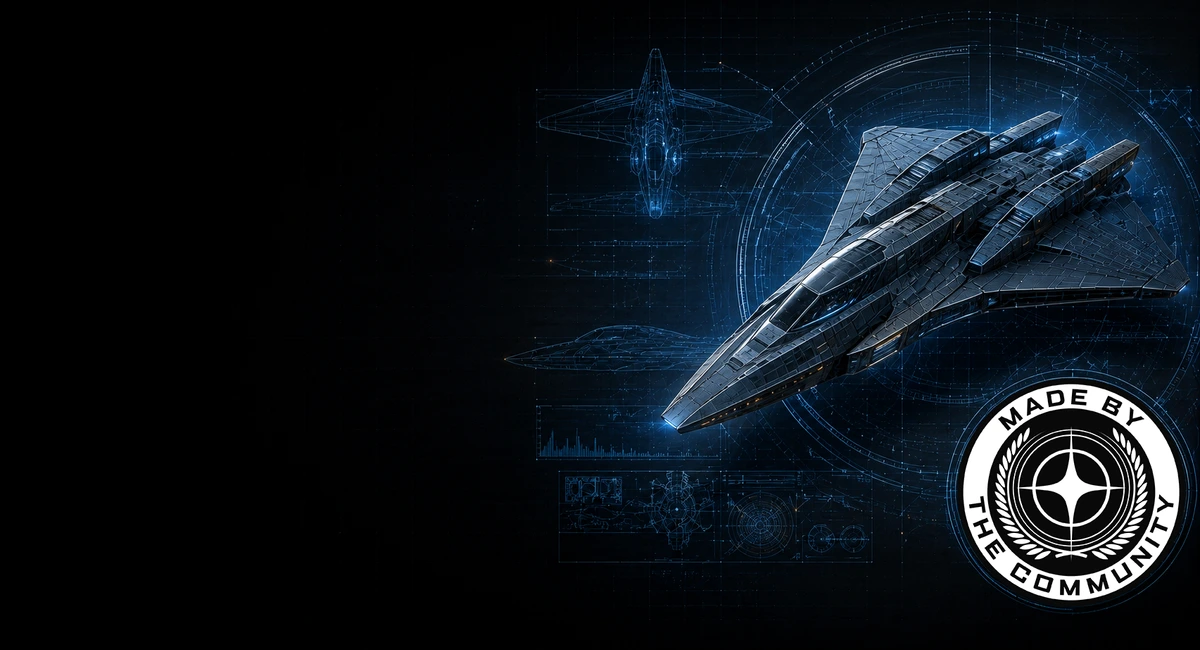
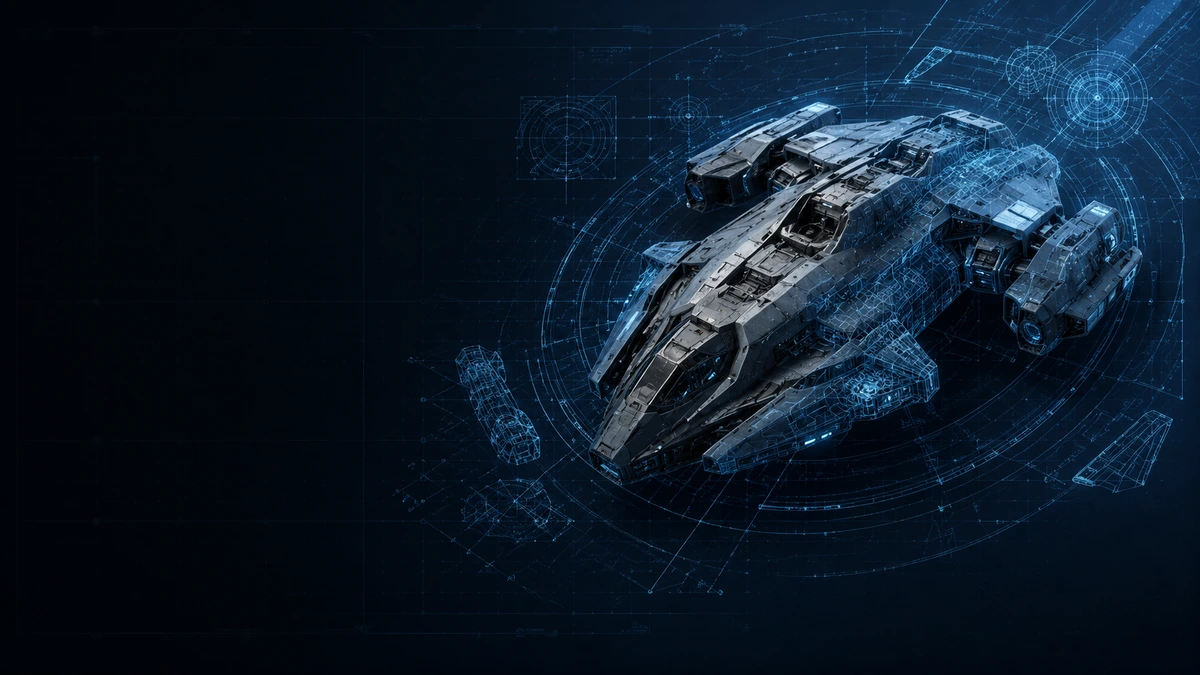
feat(branding): add reusable CertificationBadge overlay for Captain's Log (EWO-095B + Amendment 1)
The Captain's Log certification illustration is now treated as pure
environmental artwork — no branding or certification mark is assumed
embedded in it. The Community Certified seal is rendered by a new,
reusable src/components/branding/CertificationBadge.tsx overlay,
resolved through a new semantic registry (CertificationBadgeVariant /
certificationBadgeAssets.ts) rather than a hardcoded filename, deliberately
distinct from BrandingAssetKey (SFM's own identity assets) since a
certification seal is a third-party endorsement mark. Adding a future
badge (Beta Certified, LIVE Compatible, ...) means one new registry
entry, no component or page changes.

Layering: Card -> Background/Artwork -> Badge (z-10) -> Text (z-20),
so text always wins if anything overlaps. The certification card's
text wrapper is bumped from z-10 to z-20 accordingly.

Amendment 1 (presentation-only refinement, folded into this same
commit since neither half was committed independently): the badge is
sized up ~14-20% across its responsive tiers and switched from
bottom-right corner anchoring to true vertical centering
(top-1/2 + -translate-y-1/2) so it reads as an intentional visual
"signature" at the end of the card's left-to-right reading path. No
architecture, asset, or registry changes in this refinement.

The Captain's Log accent master PNG was replaced with a clean,
badge-free illustration; its WebP derivatives were regenerated from
[…]

diff --git a/src/components/branding/__tests__/CertificationBadge.test.tsx b/src/components/branding/__tests__/CertificationBadge.test.tsx
@@ -1,0 +1,70 @@
+import { describe, it, expect, vi, afterEach } from 'vitest'
+import { render, cleanup } from '@testing-library/react'
+import CertificationBadge from '../CertificationBadge'
+import { CERTIFICATION_BADGES } from '../../../config/assets'
+
+afterEach(() => cleanup())
+
+/**
+ * EWO-095B — the reusable certification-seal overlay. Covers: correct
+ * asset/alt resolution via the semantic registry (never a hardcoded
+ * filename in this component), default overlay positioning/opacity/
+ * layering, the `className` override escape hatch, and the
+ * missing-asset-never-crashes contract every other semantic asset
+ * consumer in this codebase already follows.
+ */
+describe('<CertificationBadge />', () => {
+  it("renders the 'community' seal with its registry src and alt — never a hardcoded filename", () => {
+    const { getByAltText } = render(<CertificationBadge variant="community" />)
+    const img = getByAltText(CERTIFICATION_BADGES.community.alt) as HTMLImageElement
+    expect(img).toBeInTheDocument()
+    expect(img.src).toContain(CERTIFICATION_BADGES.community.src)
+  })
+
+  it('defaults to an absolutely positioned, vertically centered, right-aligned, fully opaque, non-interactive overlay (EWO-095B Amendment 1)', () => {
+    const { getByAltText } = render(<CertificationBadge variant="community" />)
+    const img = getByAltText(CERTIFICATION_BADGES.community.alt)
+    expect(img.className).toContain('absolute')
+    expect(img.className).toContain('right-6')
+    // True vertical centering, not corner-anchoring — stays centered as
+    // card height changes since the transform is relative to the badge's
+    // own rendered height, not a fixed pixel offset from an edge.
+    expect(img.className).toContain('top-1/2')
+    expect(img.className).toContain('-translate-y-1/2')
+    expect(img.className).not.toContain('bottom-[18px]')
+    expect(img.className).toContain('pointer-events-none')
+    // Fully opaque per EWO-095B Part E — no opacity utility class applied.
+    expect(img.className).not.toMatch(/\bopacity-/)
+  })
+
+  it('renders ~14-20% larger across responsive tiers than the pre-Amendment-1 sizing (w-16/sm:w-20/md:w-24, up from w-14/sm:w-16/md:w-20)', () => {
+    const { getByAltText } = render(<CertificationBadge variant="community" />)
+    const img = getByAltText(CERTIFICATION_BADGES.community.alt)
+    expect(img.className).toContain('w-16')
+    expect(img.className).toContain('sm:w-20')
+    expect(img.className).toContain('md:w-24')
+  })
+
+  it('sits above the artwork but below foreground text in the default stacking (z-10, less than the CaptainsLog text wrapper’s z-20)', () => {
+    const { getByAltText } = render(<CertificationBadge variant="community" />)
+    const img = getByAltText(CERTIFICATION_BADGES.community.alt)
+    expect(img.className).toContain('z-10')
+  })
+
+  it('accepts a className override for a future placement without touching the component', () => {
+    const { getByAltText } = render(<CertificationBadge variant="community" className="absolute left-2 top-2 w-10" />)
+    const img = getByAltText(CERTIFICATION_BADGES.community.alt)
+    expect(img.className).toBe('absolute left-2 top-2 w-10')
+  })
+
+  it('renders nothing (never a broken <img>) when the resolved variant has no usable src', () => {
+    const original = CERTIFICATION_BADGES.community.enabled
+    CERTIFICATION_BADGES.community.enabled = false
+    try {
+      const { container } = render(<CertificationBadge variant="community" />)
+      expect(container).toBeEmptyDOMElement()
+    } finally {
+      CERTIFICATION_BADGES.community.enabled = original
+    }
+  })
+})

diff --git a/src/components/branding/CertificationBadge.tsx b/src/components/branding/CertificationBadge.tsx
@@ -1,0 +1,45 @@
+import { getCertificationBadge, resolveCertificationBadgeSrc } from '../../config/assets'
+import type { CertificationBadgeVariant } from '../../config/assets'
+
+interface CertificationBadgeProps {
+  variant: CertificationBadgeVariant
+  /** Extra classes merged onto the default bottom-right overlay position — lets a future placement/size override without a prop explosion. */
+  className?: string
+}
+
+/**
+ * EWO-095B — a small, reusable overlay responsible only for rendering a
+ * certification seal above environmental artwork. It resolves its asset
+ * semantically (`variant`, never a raw filename) and renders nothing when
+ * that variant has no approved artwork yet, exactly like every other
+ * semantic asset resolver in this codebase.
+ *
+ * Positioned absolutely by default (the caller's own container must be
+ * `position: relative`), fully opaque, and `pointer-events-none` since
+ * it's a non-interactive mark, not a control. Callers needing a different
+ * placement/size for a future context pass `className` to override the
+ * position/sizing utilities below without touching this component.
+ *
+ * EWO-095B Amendment 1 — vertically centered (top-1/2 + -translate-y-1/2)
+ * rather than corner-anchored to the card's bottom edge, and sized up
+ * ~14-20% across the responsive tiers (w-14/sm:w-16/md:w-20 ->
+ * w-16/sm:w-20/md:w-24) so the seal reads as an intentional visual
+ * "signature" at the end of the card's left-to-right reading path rather
+ * than a decorative corner element. Stays centered as card height changes
+ * since the transform is relative to the badge's own height, not a fixed
+ * offset.
+ */
+export default function CertificationBadge({ variant, className }: CertificationBadgeProps) {
+  const src = resolveCertificationBadgeSrc(variant)
+  if (!src) return null
+
+  const { alt } = getCertificationBadge(variant)
+
+  return (
+    <img
+      src={src}
+      alt={alt}
+      className={className ?? 'absolute right-6 top-1/2 -translate-y-1/2 z-10 w-16 sm:w-20 md:w-24 h-auto object-contain pointer-events-none select-none'}
+    />
+  )
+}

diff --git a/src/config/assets/__tests__/certificationBadgeAssets.test.ts b/src/config/assets/__tests__/certificationBadgeAssets.test.ts
@@ -1,0 +1,33 @@
+import { describe, it, expect } from 'vitest'
+import { CERTIFICATION_BADGES, getCertificationBadge, resolveCertificationBadgeSrc } from '../certificationBadgeAssets'
+import type { CertificationBadgeDefinition } from '../types'
+
+/**
+ * EWO-095B — `<CertificationBadge>`'s semantic asset registry. A distinct
+ * registry from `BrandingAssetKey` (SFM's own identity assets) — see
+ * `CertificationBadgeVariant`'s own doc comment (types.ts) for why.
+ */
+describe('EWO-095B: certification badge registry', () => {
+  it("'community' is enabled with an approved asset and a real, non-empty alt", () => {
+    const def = getCertificationBadge('community')
+    expect(def.enabled).toBe(true)
+    expect(def.src).toMatch(/^\/assets\/branding\/community\/.+\.png$/)
+    expect(def.alt.trim().length).toBeGreaterThan(0)
+  })
+
+  it('resolveCertificationBadgeSrc returns the registered src for an enabled variant', () => {
+    expect(resolveCertificationBadgeSrc('community')).toBe(CERTIFICATION_BADGES.community.src)
+  })
+
+  it('returns undefined (never a broken path) when disabled, regardless of src being present — pure resolution logic, matching resolveCaptainsLogAccentSource’s own contract', () => {
+    const disabledButSourced: CertificationBadgeDefinition = { variant: 'community', label: 'x', alt: 'x', src: '/assets/branding/community/x.png', enabled: false }
+    const resolved = disabledButSourced.enabled && disabledButSourced.src ? disabledButSourced.src : undefined
+    expect(resolved).toBeUndefined()
+  })
+
+  it('never throws for a defined variant with no src, resolving to undefined instead', () => {
+    const noSrc: CertificationBadgeDefinition = { variant: 'community', label: 'x', alt: 'x', enabled: true }
+    const resolved = noSrc.enabled && noSrc.src ? noSrc.src : undefined
+    expect(resolved).toBeUndefined()
+  })
+})

diff --git a/src/pages/__tests__/CaptainsLog.test.tsx b/src/pages/__tests__/CaptainsLog.test.tsx
@@ -54,6 +54,37 @@ describe("CWO-005 (Task 5) / BP-001: Captain's Log — version/certification pre
 })
 
 /**
+ * EWO-095B — "Canonical Image Presentation & Environmental Clarity" for
+ * Captain's Log specifically: the certification illustration is artwork
+ * only (no embedded badge assumed), and the Community Certification Seal
+ * is a separate, reusable `<CertificationBadge>` overlay layered above the
+ * artwork but below the certification text.
+ */
+describe("EWO-095B: Captain's Log certification card — reusable badge overlay", () => {
+  it('renders the Community Certified seal as a real <img>, resolved through the semantic registry', () => {
+    renderCaptainsLog()
+    const badge = screen.getByAltText('Community Certified') as HTMLImageElement
+    expect(badge).toBeInTheDocument()
+    expect(badge.src).toContain('/assets/branding/community/community-certified-seal.png')
+  })
+
+  it('badge floats above the artwork but stays below the certification text (z-10 vs. the text wrapper’s z-20) — text is never obscured', () => {
+    renderCaptainsLog()
+    const badge = screen.getByAltText('Community Certified')
+    expect(badge.className).toContain('z-10')
+    const certifiedForLabel = screen.getByText('Certified for')
+    const textWrapper = certifiedForLabel.parentElement as HTMLElement
+    expect(textWrapper.className).toContain('z-20')
+  })
+
+  it('certification text remains present and unchanged alongside the badge', () => {
+    renderCaptainsLog()
+    expect(screen.getByText(`Strategic Fleet Manager ${APP_VERSION_LABEL}`)).toBeInTheDocument()
+    expect(screen.getByText('Certified for')).toBeInTheDocument()
+  })
+})
+
+/**
  * EWO-093 — "Fleet Export Architecture." The Export button is the one
  * Commander-facing piece of this work order — everything else is the
  * shared serialization module underneath it (see

diff --git a/src/config/assets/types.ts b/src/config/assets/types.ts
@@ -223,3 +223,34 @@ export interface CaptainsLogAccentDefinition {
   /** True once this id is both delivered and approved for integration. */
   enabled: boolean
 }
+
+/**
+ * EWO-095B — semantic variants for `<CertificationBadge>`, the small
+ * reusable overlay that renders a certification seal above environmental
+ * artwork (never a raw PNG filename in page code). Deliberately its own
+ * registry rather than folded into `BrandingAssetKey` — that registry is
+ * scoped to Strategic Fleet Manager's own identity assets (logo, marks,
+ * app icon); a certification seal is a third-party/community endorsement
+ * mark layered onto a specific card, a different semantic category
+ * entirely, delivered under `public/assets/branding/community/` (and
+ * future sibling directories per issuer).
+ *
+ * Today only `'community'` has approved artwork. The union exists so a
+ * future badge (Beta Certified, LIVE Compatible, PTU Compatible,
+ * Community Verified, Quantum Thread Studio Certified, ...) is added here
+ * and to `CERTIFICATION_BADGES` without `<CertificationBadge>` or any of
+ * its callers changing shape — only ever `<CertificationBadge variant="...">`,
+ * never a hardcoded filename.
+ */
+export type CertificationBadgeVariant = 'community'
+
+export interface CertificationBadgeDefinition {
+  variant: CertificationBadgeVariant
+  label: string
+  /** Root-relative public path, or undefined until this variant's artwork is approved. */
+  src?: string
+  /** Accessible alt text — the seal is substantive certification content, not decorative filler. */
+  alt: string
+  /** True once this variant's artwork is both delivered and approved for integration. */
+  enabled: boolean
+}

diff --git a/src/config/assets/certificationBadgeAssets.ts b/src/config/assets/certificationBadgeAssets.ts
@@ -1,0 +1,31 @@
+import { assetPath } from './assetPaths'
+import type { CertificationBadgeDefinition, CertificationBadgeVariant } from './types'
+
+/**
+ * EWO-095B — see `CertificationBadgeVariant`'s own doc comment (types.ts)
+ * for why this is a distinct registry from `BrandingAssetKey`. The seal
+ * master is a single, already-appropriately-sized square PNG with alpha —
+ * no responsive-tier pipeline is warranted here (unlike the photographic
+ * environment/illustration backgrounds), matching the existing
+ * `compactMark`/`sidebarCommissioningMark` precedent of referencing an
+ * approved raster directly.
+ */
+export const CERTIFICATION_BADGES: Record<CertificationBadgeVariant, CertificationBadgeDefinition> = {
+  community: {
+    variant: 'community',
+    label: 'Community Certified Seal',
+    alt: 'Community Certified',
+    src: assetPath('branding/community/community-certified-seal.png'),
+    enabled: true,
+  },
+}
+
+export function getCertificationBadge(variant: CertificationBadgeVariant): CertificationBadgeDefinition {
+  return CERTIFICATION_BADGES[variant]
+}
+
+/** Resolved src, or undefined when this variant isn't enabled/has no approved artwork yet — callers must render nothing rather than a broken `<img>`. */
+export function resolveCertificationBadgeSrc(variant: CertificationBadgeVariant): string | undefined {
+  const def = CERTIFICATION_BADGES[variant]
+  return def.enabled && def.src ? def.src : undefined
+}

diff --git a/src/pages/CaptainsLog.tsx b/src/pages/CaptainsLog.tsx
@@ -7,6 +7,7 @@ import FleetImportPreview from '../components/FleetImportPreview'
 import { APP_VERSION_LABEL } from '../config/appVersion'
 import { resolveCertifiedGameVersionLabel } from '../utils/scVersion'
 import { resolveCaptainsLogAccentSource } from '../config/assets'
+import CertificationBadge from '../components/branding/CertificationBadge'
 
 type FleetImportSuccessOutcome = Extract<FleetImportOutcome, { ok: true }>
 
@@ -125,7 +126,13 @@ export default function CaptainsLog() {
             }}
           />
         )}
-        <div className="relative z-10">
+        {/* EWO-095B — the seal is a reusable branding overlay, never
+            embedded in the illustration itself. Layered above the artwork
+            but below the text (z-10 vs. the text wrapper's z-20) so it can
+            never obscure the certification copy even if the card's
+            content ever grows. */}
+        <CertificationBadge variant="community" />
+        <div className="relative z-20">
           <p className="text-white font-medium">Strategic Fleet Manager {APP_VERSION_LABEL}</p>
           <p className="text-[11px] uppercase tracking-widest text-muted/70 mt-2">Certified for</p>
           <p className="text-white">{certifiedGameVersion ? `Star Citizen LIVE ${certifiedGameVersion}` : 'Not yet certified — Golden Fleet catalog not generated locally'}</p>

diff --git a/src/pages/__tests__/chiefArchitectAssetHandoffEmptyStates.test.tsx b/src/pages/__tests__/chiefArchitectAssetHandoffEmptyStates.test.tsx
@@ -154,10 +154,11 @@ describe("Chief Architect Asset Handoff — Captain's Log certification accent",
     const certHeading = screen.getByText(/Strategic Fleet Manager/)
     expect(certHeading).toBeInTheDocument()
     expect(screen.getByText('Certified for')).toBeInTheDocument()
-    // The text wrapper sits above the decorative layer (z-index), not
-    // beside or instead of it.
+    // The text wrapper sits above both the decorative accent layer and
+    // the EWO-095B CertificationBadge overlay (z-20 > the badge's z-10),
+    // not beside or instead of them.
     const textWrapper = certHeading.parentElement as HTMLElement
     expect(textWrapper.className).toContain('relative')
-    expect(textWrapper.className).toContain('z-10')
+    expect(textWrapper.className).toContain('z-20')
   })
 })

diff --git a/src/config/assets/index.ts b/src/config/assets/index.ts
@@ -11,3 +11,4 @@ export { resolveFleetRegistryImage, manufacturerSlugForCode, FLEET_REGISTRY_PLAC
 export { WORKFLOW_ILLUSTRATIONS, getWorkflowIllustration, resolveWorkflowIllustration } from './workflowAssets'
 export { SHIP_MANAGEMENT_ILLUSTRATIONS, getShipManagementIllustration, resolveShipManagementIllustration } from './shipManagementAssets'
 export { CAPTAINS_LOG_ACCENTS, getCaptainsLogAccent, resolveCaptainsLogAccentSource } from './captainsLogAssets'
+export { CERTIFICATION_BADGES, getCertificationBadge, resolveCertificationBadgeSrc } from './certificationBadgeAssets'
